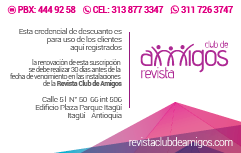
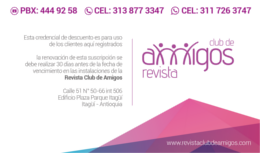
carnet reverse

diff --git a/public/css/invoice.css b/public/css/invoice.css
@@ -6,7 +6,7 @@
 	height: 1118px;	
 }
 .fecha{
-	margin-top: 49px;	
+	margin-top: 118px;	
 }
 .spanfecha1{
 	margin-left: 468px;

diff --git a/resources/views/invoice/generalpdf.blade.php b/resources/views/invoice/generalpdf.blade.php
@@ -2,7 +2,7 @@
 <html lang="es">
 	<head>
 		<meta charset="UTF-8">
-		<title>Carnet PDF</title>
+		<title>Factura PDF</title>
 	</head>	
 	{{ Html::style('css/invoice.css')}}	
 
@@ -15,12 +15,12 @@
 
 			<div class="suscription">
 				<div class="fecha" >
-					<span class="spanfecha1"> {{$sct['annos']}}  &nbsp;&nbsp;</span>
+					<span class="spanfecha1"> {{$sct['dias']}}  &nbsp;&nbsp;</span>
 					<span>{{$sct['mess']}}  &nbsp;&nbsp; &nbsp;&nbsp;</span>
-					<span>{{$sct['dias']}}</span>
-					<span class="spanfecha2"> {{$sct['annoe']}}  &nbsp;&nbsp;</span>
+					<span>{{$sct['annos']}}</span>
+					<span class="spanfecha2"> {{$sct['diae']}}  &nbsp;&nbsp;</span>
 					<span>{{$sct['mese']}}  &nbsp;&nbsp; &nbsp;&nbsp;</span>
-					<span>{{$sct['diae']}}</span>
+					<span>{{$sct['annoe']}}</span>
 				</div>
 				<div class="nombre">
 					<span class="spannombre">  {{$sct['Nombres_socio']}} </span>

diff --git a/resources/views/license/carnet.blade.php b/resources/views/license/carnet.blade.php
@@ -89,7 +89,8 @@
 
 		.foot{			
 		    color: white;
-		    margin-left: 221px;
+	        margin-left: 231px;
+    		font-size: 14px;
 		}
 
 		.info_foot{
@@ -109,6 +110,18 @@
 
 		.conteiner .page_conteiner:nth-of-type(4){
 			margin-bottom: 9px;
+		}
+
+
+		/*reverse de crarnets*/
+		/*solo para la parte trasera, solo los pares*/
+		.conteiner .page_conteiner:nth-of-type(even) .cnt_conteiner:nth-of-type(even){
+			
+		}
+
+		/*impares*/
+		.conteiner .page_conteiner:nth-of-type(even) .cnt_conteiner:nth-of-type(odd){			
+			float: right;	
 		}
 		
 

diff --git a/resources/views/welcome.blade.php b/resources/views/welcome.blade.php
@@ -1,7 +1,6 @@
 @extends('app')
 
-@section('content')
-	
+@section('content')	
 	@if(Session::has('error'))
 		<div class="alert alert-danger">
 			<strong>¡Acceso seguro!</strong> Acceso denegado.<br><br>
@@ -71,9 +70,7 @@
 		javascript:clu_suscripcion.colores_pie = [];
 		javascript:clu_suscripcion.datos_bar = [];
 		javascript:clu_suscripcion.datos_pie_down = [];
-		javascript:clu_suscripcion.datos_bar_down = [];
-
-					
+		javascript:clu_suscripcion.datos_bar_down = [];					
 	</script>
 @endsection
     

diff --git a/resources/views/app.blade.php b/resources/views/app.blade.php
@@ -16,10 +16,13 @@
 	{{ Html::style('css/lib/jquery-ui.css')}}	
 	{{ Html::style('css/lib/datatables.min.css')}}
 	{{ Html::style('css/lib/datatables.tabletools.css')}}	
-	{{ Html::style('css/lib/bootstrap-datepicker.min.css')}}
-
-			
+	{{ Html::style('css/lib/bootstrap-datepicker.min.css')}}			
 </head>
+<style type="text/css">
+	.nav li li.current-page a {
+	    color: #000 !important;
+	}
+</style>
 <body class="nav-md">
 	<div class="container body">
 		<div class="main_container">
